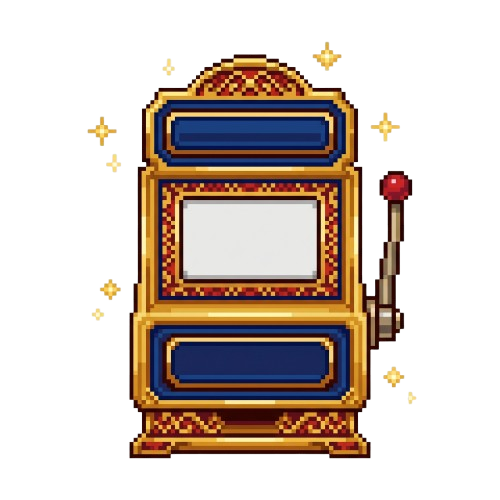
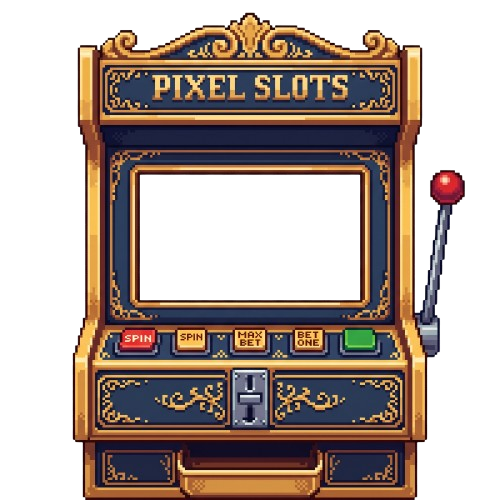
feat(slot): transparent cabinet images + pixel-precise reel positioning
- Replace machine cabinet PNGs with new Gemini-generated transparent-window versions (slot-up/slot-down)
- Machine image now overlays at z-index:2; reels sit behind at z-index:1, visible through transparent window
- Reel window coordinates measured directly from PNG pixels: left=28%, top=35%, width=44%, height=25%
- Symbol size tuned to 105% with object-fit:contain

diff --git a/frontend/src/views/SlotView.vue b/frontend/src/views/SlotView.vue
@@ -407,20 +407,22 @@ onUnmounted(() => {
   display: block;
   pointer-events: none;
   user-select: none;
+  position: relative;
+  z-index: 2;
 }
 
-/* 滾輪嵌入機台視窗（百分比根據圖片位置調整） */
+/* 滾輪放在機台圖下層，透過透明視窗透出 */
 .reels-inner {
   position: absolute;
-  left: 29%;
-  top: 36%;
-  width: 43%;
-  height: 22%;
+  left: 28%;
+  top: 35%;
+  width: 44%;
+  height: 25%;
   display: flex;
   align-items: stretch;
   justify-content: center;
   gap: 0;
-  overflow: hidden;
+  z-index: 1;
 }
 
 /* 滾輪符號縮小以配合機台視窗 */
@@ -441,9 +443,9 @@ onUnmounted(() => {
 }
 
 .reels-inner :deep(.symbol) {
-  width: 100%;
-  height: 100%;
-  object-fit: cover;
+  width: 105%;
+  height: 105%;
+  object-fit: contain;
 }
 
 .reels-inner :deep(.symbol-label) {
@@ -454,12 +456,13 @@ onUnmounted(() => {
 .lever-btn {
   position: absolute;
   right: 0;
-  top: 30%;
-  width: 18%;
-  height: 44%;
+  top: 20%;
+  width: 20%;
+  height: 55%;
   background: transparent;
   border: none;
   cursor: pointer;
+  z-index: 3;
 }
 
 .lever-btn:disabled {